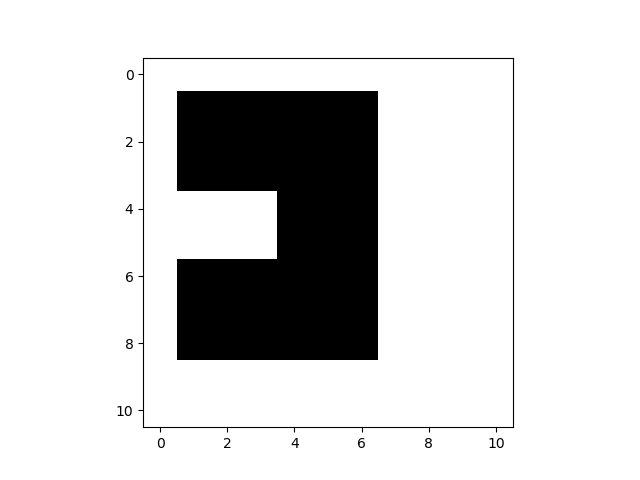
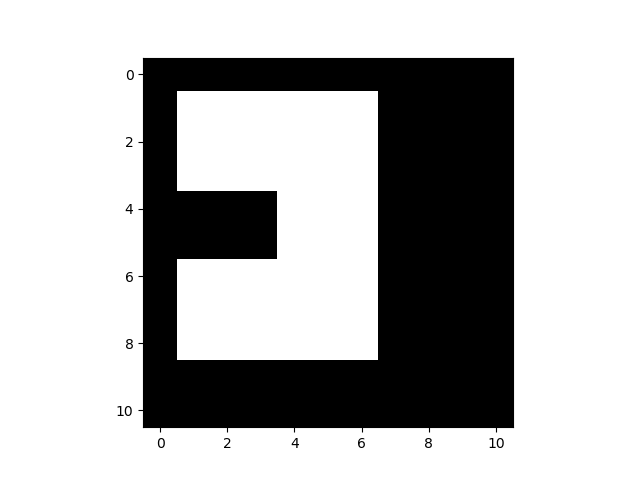
binary map

diff --git a/src/binary_map.py b/src/binary_map.py
@@ -38,38 +38,42 @@ class MyBinaryMap:
         return(binary_grid)
 
 
-def occupancy_to_binary(grid):
-    """
+    def occupancy_to_binary(self):
+        """
 
-    :param grid: occupancy grid with values between 0 and 1, where 0 represent free and 1 obstacle. -1 --> unknown
-    :return:
-    """
-    binary_grid = np.copy(grid)
-    binary_grid[binary_grid > 0.5] = 1
-    binary_grid[binary_grid < 0.5] = 0
-    return binary_grid
-
-
-def reduce_resolution(grid, new_shape):
-    """
-
-    :param grid: occupancy grid
-    :param new_shape:
-    :return:
-    """
-    new_grid = np.copy(grid)
-    sh = new_shape[0], grid.shape[0]//new_shape[0], new_shape[1], grid.shape[1]//new_shape[1]
-    return new_grid.reshape(sh).mean(-1).mean(1)
+        :param grid: occupancy grid with values between 0 and 1, where 0 represent free and 1 obstacle. -1 --> unknown
+        :return:
+        """
+        binary_grid = np.copy(self.grid)
+        binary_grid = binary_grid/100
+        binary_grid[binary_grid >= 0.5] = 1
+        binary_grid[binary_grid < 0] = 1
+        binary_grid[binary_grid < 0.5] = 0
+        print(binary_grid)
+        return binary_grid
 
 
-def grid_to_img(grid):
-    """
+    def reduce_resolution(self, binary_full_grid):
+        """
+        
+        :param grid: occupancy grid
+        :param new_shape:
+        :return:
+        """
+        new_shape = int(self.grid.shape[0]/self.grid_resol), int(self.grid.shape[1]/self.grid_resol)
+        new_grid = np.copy(binary_full_grid)
+        sh = new_shape[0], self.grid.shape[0]//new_shape[0], new_shape[1], self.grid.shape[1]//new_shape[1]
+        return np.rint(new_grid.reshape(sh).mean(-1).mean(1))
 
-    :param grid:
-    :return:
-    """
-    img = np.array(grid * 255, dtype=np.uint8)
-    return cv2.adaptiveThreshold(img, 255, cv2.ADAPTIVE_THRESH_MEAN_C, cv2.THRESH_BINARY, 3, 0)
+
+    def grid_to_img(grid):
+        """
+
+        :param grid:
+        :return:
+        """
+        img = np.array(grid * 255, dtype=np.uint8)
+        return cv2.adaptiveThreshold(img, 255, cv2.ADAPTIVE_THRESH_MEAN_C, cv2.THRESH_BINARY, 3, 0)
 
 
 # for script testing

diff --git a/src/scan_to_grid.py b/src/scan_to_grid.py
@@ -10,7 +10,7 @@ import tf
 import numpy as np
 import time
 from binary_map import MyBinaryMap
-
+import matplotlib.pyplot as plt
 
 def quat_to_euler(orientation):
     quat = (orientation.x, orientation.y, orientation.z, orientation.w)
@@ -121,9 +121,13 @@ class MapGrid:
         # TEMPORAL #
         t1 = time.time()
         total = int(t1 - self.t0)
-        if total % 100 == 0: self.plotgrid = True
-        if total > 50 and self.plotgrid:
-            self.binary_map = MyBinaryMap(self.grid, 1/self.resolution).binaryGrid()
+        if total % 50 == 0: self.plotgrid = True
+        if total > 10 and self.plotgrid:
+            self.binary_map = MyBinaryMap(self.grid, 1/self.resolution).occupancy_to_binary()
+            self.binary_map = MyBinaryMap(self.grid, 1/self.resolution).reduce_resolution(self.binary_map)
+            plt.imshow(self.binary_map, cmap='Greys',  interpolation='nearest')
+            plt.savefig('Generated/binary_map.png')
+            np.savetxt("Generated/binary_map.csv", self.binary_map, delimiter=",")
             self.plotgrid = False
       
     def _mark_as_probable_obs(self, x, y):
